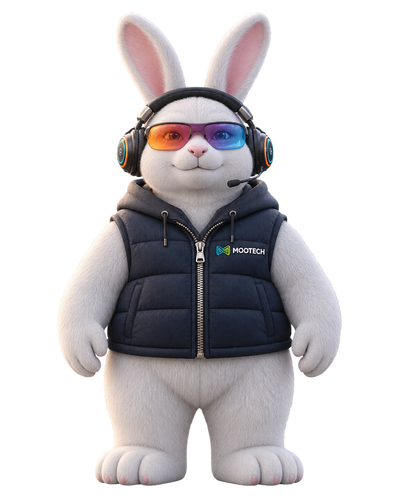
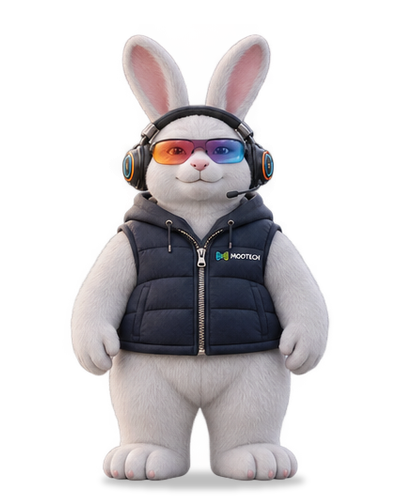
feat: apply four approved rabbit motions to lucky wheel

Changed region(s): [[0.15, 0.03, 0.87, 0.99], [0.48, 0.81, 0.51, 0.84], [0.42, 0.78, 0.45, 0.81]]

diff --git a/event/20261111_lucky_wheel/assets/js/config.js b/event/20261111_lucky_wheel/assets/js/config.js
@@ -62,13 +62,11 @@ window.EVENT_CONFIG = {
   mascot: {
     loopMs: 2000,
     idle: [
-      'assets/img/mascot/idle-2.webp',
-      'assets/img/mascot/idle-3.webp'
+      'assets/img/mascot/idle-1.webp'
     ],
     spinning: 'assets/img/mascot/spinning.webp',
     result: 'assets/img/mascot/result.webp',
-    // 未中獎的「失望」動作：交付後填 mascot 資料夾裡的 lose 動態檔；留空時用 result
-    lose: ''
+    lose: 'assets/img/mascot/lose.webp'
   },
 
   /* 音效與 BGM：留空時用 Web Audio 即時合成（sound.js 依皮選音色）；交付音檔後填路徑即改播音檔。

diff --git a/event/20261111_lucky_wheel/tools/install_rabbit_v4.py b/event/20261111_lucky_wheel/tools/install_rabbit_v4.py
@@ -1,0 +1,19 @@
+"""Encode the four approved motion previews for the activity's runtime slots."""
+from pathlib import Path
+from PIL import Image
+import shutil,json
+R=Path(__file__).resolve().parents[1];src=R/'source/rabbit-fullpose-v4';dest=R/'assets/img/mascot'
+report=[]
+for name,slot in [('idle','idle-1'),('excited','spinning'),('celebration','result'),('recover','lose')]:
+ frames=[Image.open(p).convert('RGBA') for p in sorted((src/f'{name}-frames').glob('*.png'))]
+ assert len(frames)==48
+ durations=[50 if i%6==3 else 40 for i in range(48)]
+ out=dest/f'{slot}.webp'
+ frames[0].save(out,save_all=True,append_images=frames[1:],duration=durations,loop=0,quality=90,method=4,minimize_size=True)
+ with Image.open(out) as im:
+  total=0
+  for i in range(im.n_frames):im.seek(i);im.load();total+=im.info['duration']
+  assert total==2000 and im.size==(400,500)
+ report.append({'source':name,'runtime':str(out.relative_to(R)),'bytes':out.stat().st_size,'duration_ms':total,'quality':90,'alpha':True})
+shutil.copy2(src/'idle-frames/frame-000.png',dest/'base-frame.png')
+(src/'runtime-install.json').write_text(json.dumps(report,indent=2));print(json.dumps(report))

diff --git a/event/20261111_lucky_wheel/source/rabbit-fullpose-v4/README.md b/event/20261111_lucky_wheel/source/rabbit-fullpose-v4/README.md
@@ -11,6 +11,8 @@
 
 逐幀尺寸、留白與共用頭尾檢查見 four-actions-checks.json；深淺背景邊緣檢視見 actions-edge-check.jpg。GIF 使用固定底色，遊戲透明格式為 WebP。
 
-目前為動作預覽，尚未替換遊戲；生成胸前字標仍需修整，不能視為完整品牌素材交付。首版再接再厲因重影已淘汰，不在本資料夾交付。
+四段動作已套用原版轉盤；生成胸前字標仍需修整，不能視為完整品牌素材交付。首版再接再厲因重影已淘汰，不在本資料夾交付。
 
 工具：tools/build_rabbit_fullpose_idle.py、tools/build_rabbit_fullpose_actions.py，需 Pillow、NumPy、opencv-python-headless。
+
+網頁套用：待機 `idle-1.webp`、抽獎中 `spinning.webp`、中獎 `result.webp`、未中獎 `lose.webp`。皆為透明 WebP，2 秒循環。

diff --git a/event/20261111_lucky_wheel/README.md b/event/20261111_lucky_wheel/README.md
@@ -16,4 +16,4 @@
 
 ## 兔比動態優化進度
 
-[四段動態預覽與透明素材](./source/rabbit-fullpose-v4/README.md)：待機、興奮、慶祝、再接再厲。尚未替換遊戲，胸前字標仍需修整。
+[四段動態預覽與透明素材](./source/rabbit-fullpose-v4/README.md)：待機、興奮、慶祝、再接再厲。已套用原版轉盤，胸前字標仍需修整。
